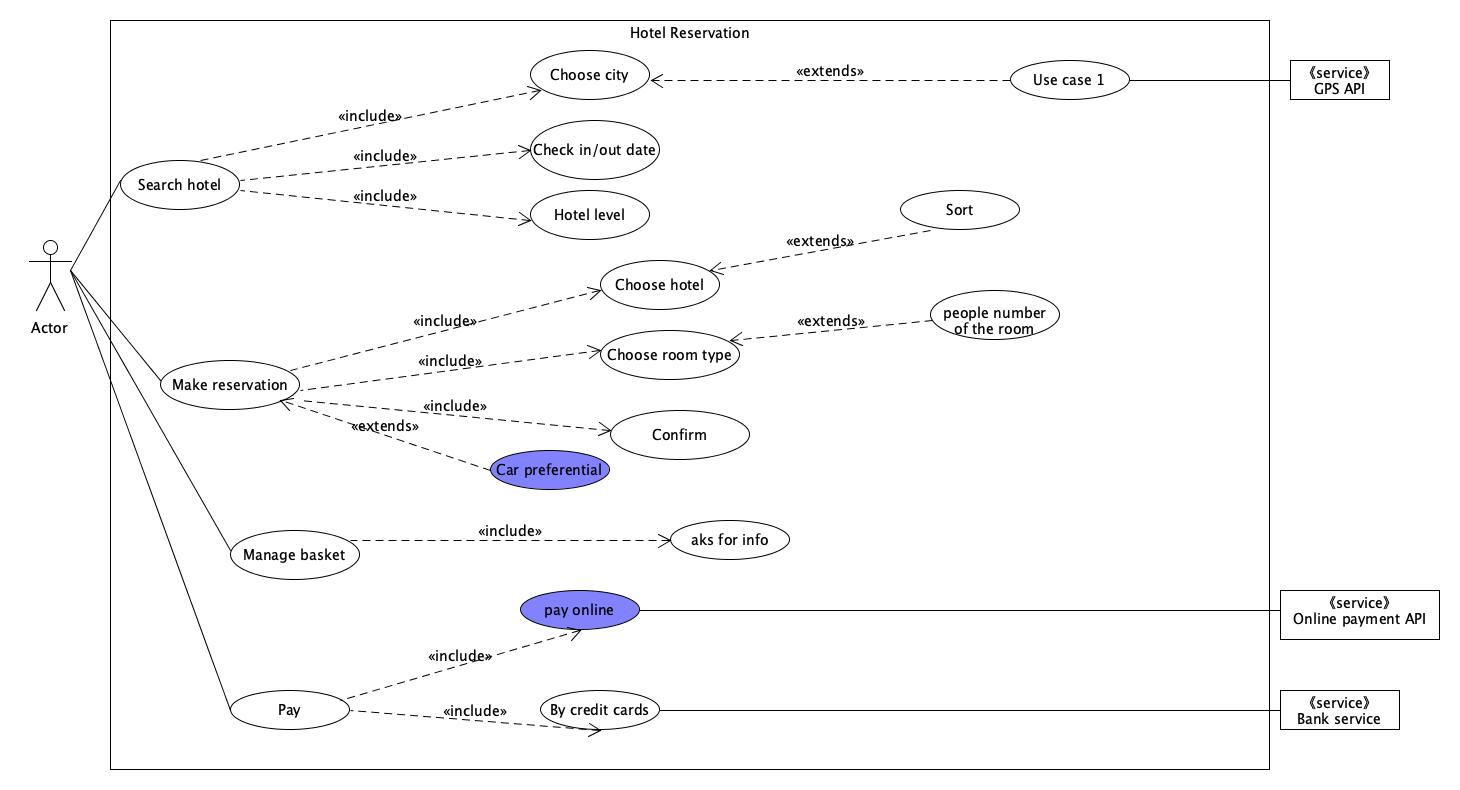
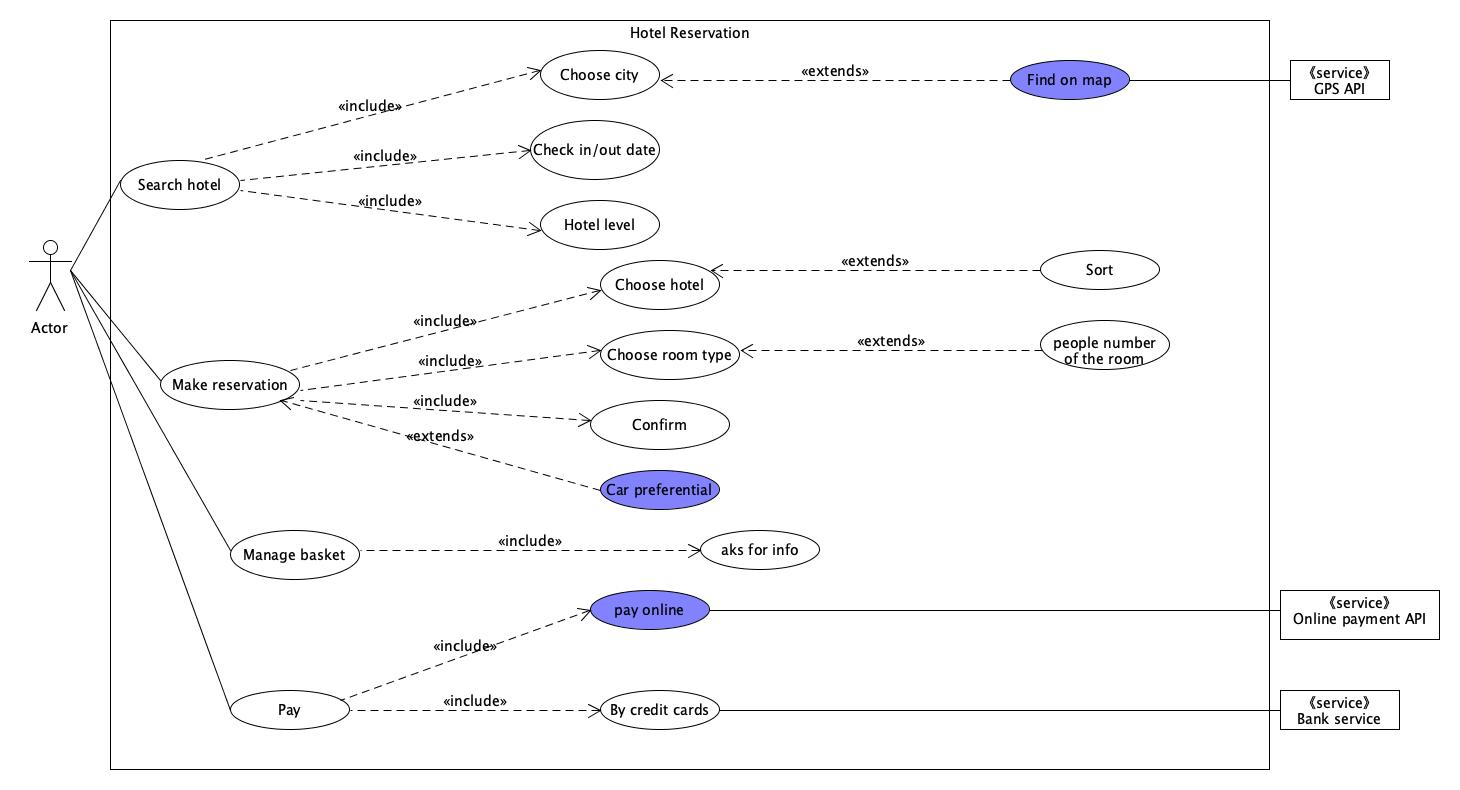
week6

diff --git a/swsad/用例建模-绘制用例图/page.md b/swsad/用例建模-绘制用例图/page.md
@@ -70,9 +70,41 @@
 
 2. 订电影票：
 
+   ![2](./pic/2.jpg)
+
+   
+
 - 然后，回答下列问题：
+
   1. 为什么相似系统的用例图是相似的？
+
+     因为相似的系统，面对的参与者和用例是相似的，用例之间的关系也是同构的。用户预期的功能也是接近的。即使不同的同类系统具有不一样的拓展功能，在用例图上所体现的结构框架也是相似的。
+
   2. 如果是定旅馆业务，请对比 Asg_RH 用例图，简述如何利用不同时代、不同地区产品的用例图，展现、突出创新业务和技术
+
+     在用例图上添加创新业务，满足不同时代、不同地区用户的不同需求，突出创新和与时俱进；替换老旧功能，淘汰落后、不受欢迎的业务。
+
   3. 如何利用用例图定位创新思路（业务创新、或技术创新、或商业模式创新）在系统中的作用
+
+     通过创新点在图中的位置来判断。如果创新位于较高的父级，则作用比较大。如果是子类或者是被包括的关系，则作用相对较小。
+
   4. 请使用 SCRUM 方法，选择一个用例图，编制某定旅馆开发的需求（backlog）开发计划表
+
+     | ID   | Name             | Imp  | Est  | Itern | How to demo                                    |
+     | ---- | ---------------- | ---- | ---- | ----- | ---------------------------------------------- |
+     | 1    | find hotel       | 10   | 16   | 4     | find the thoel by location, data, name or type |
+     | 2    | make reservation | 7    | 12   | 6     | determine the room type , time of the hotel    |
+     | 3    | manage basket    | 5    | 8    | 1     | confirm or cancel                              |
+     | 4    | payment          | 5    | 8    | 4     | make payment using outside paying system       |
+
+     
+
   5. 根据任务4，参考 [使用用例点估算软件成本](https://www.ibm.com/developerworks/cn/rational/edge/09/mar09/collaris_dekker/index.html)，给出项目用例点的估算
+
+| 用例             | \#事务 | \#计算 | 原因 | UC权重 |
+| ---------------- | ------ | ------ | ---- | ------ |
+| find hotel       | 7      | 6      | 框架 | 平均   |
+| make reservation | 5      | 4      |      | 简单   |
+| manage basket    | 1      | 1      |      | 简单   |
+| payment          | 4      | 2      |      | 简单   |
+
